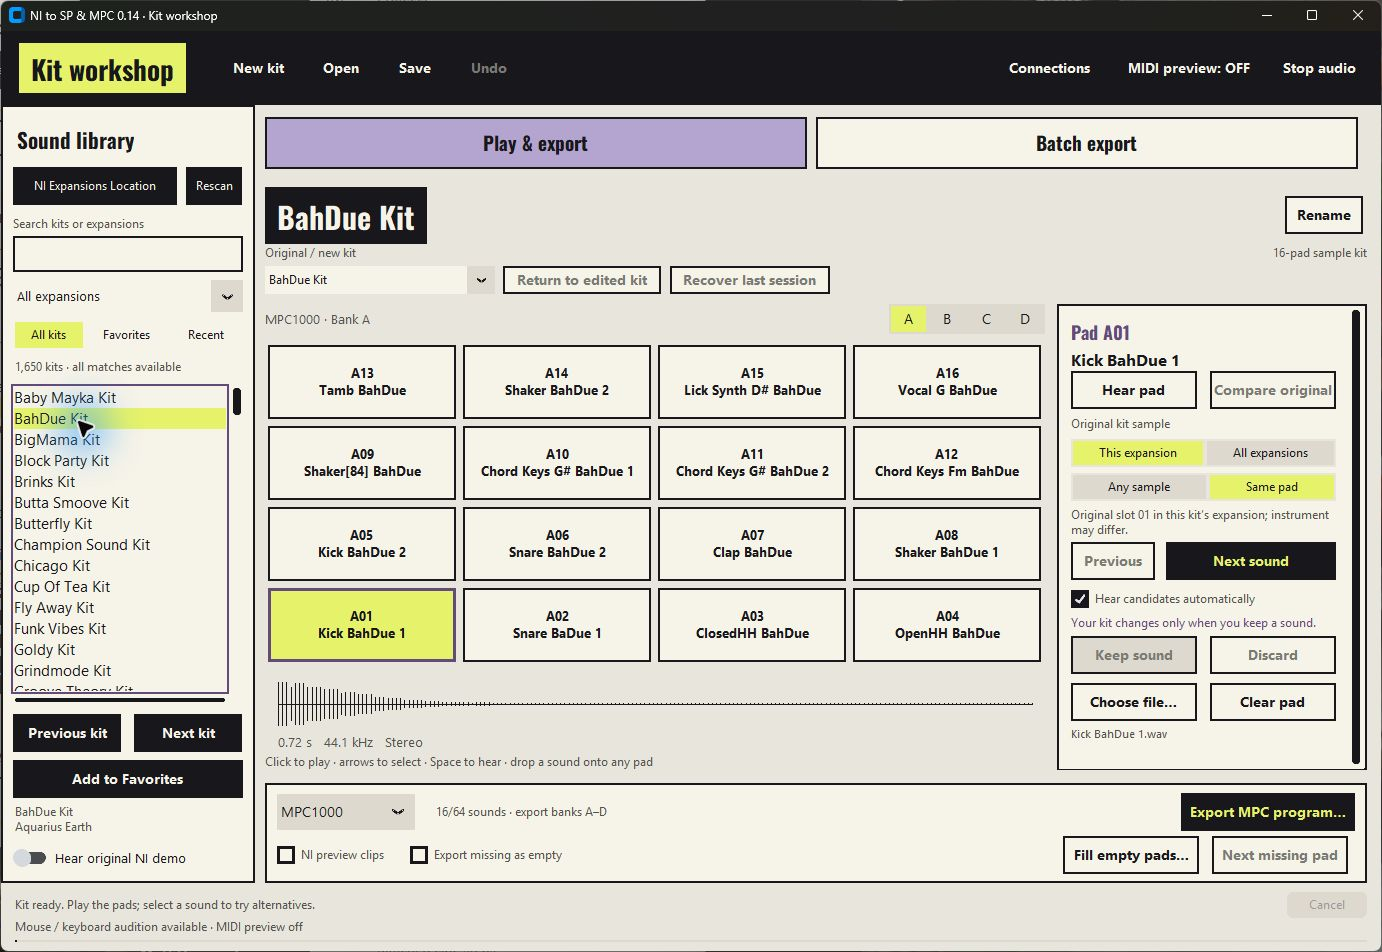
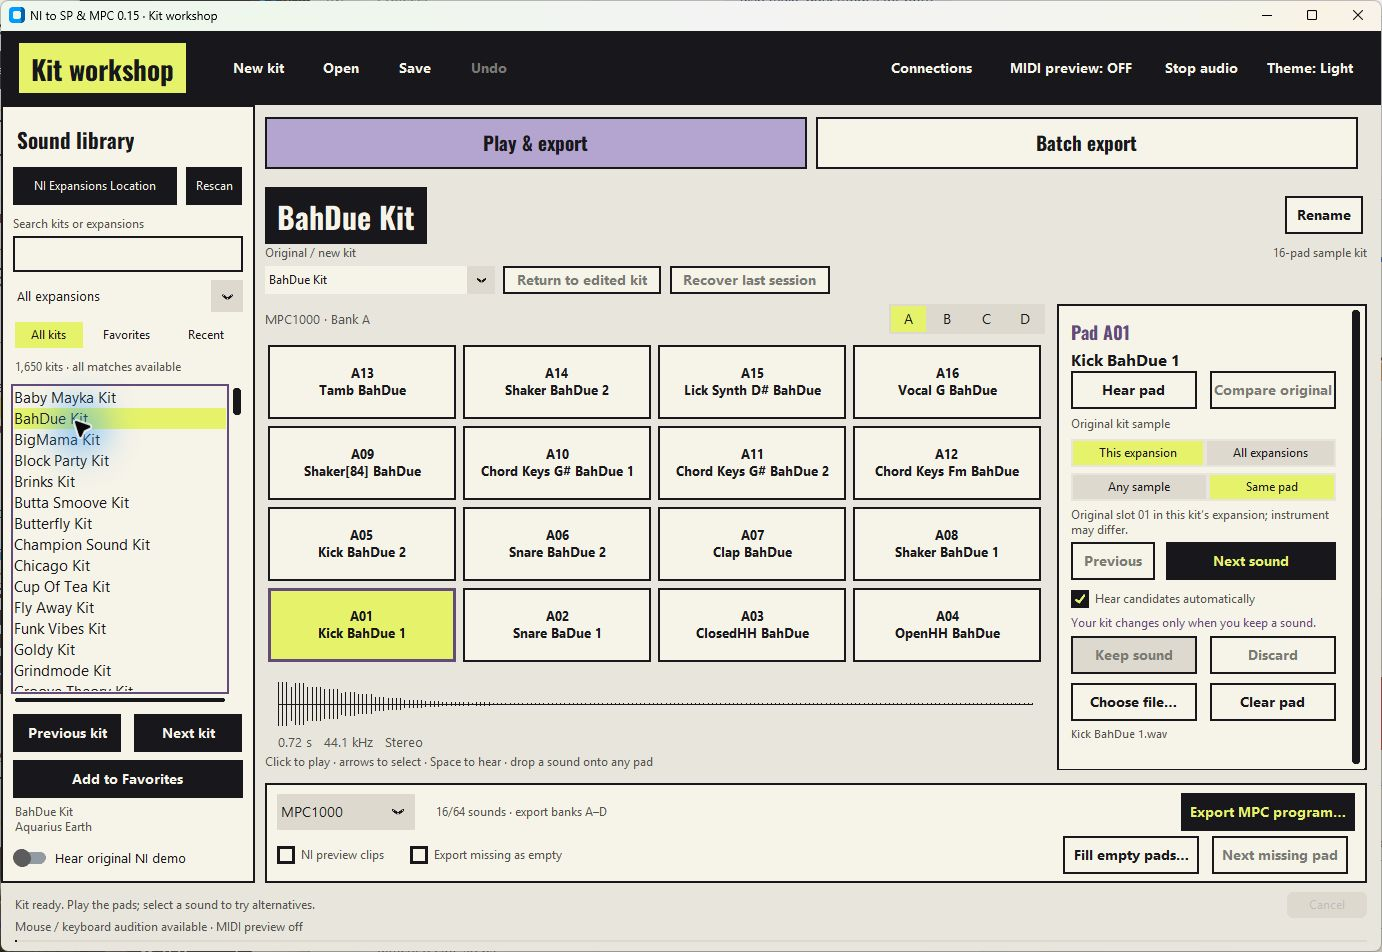
Add remembered light and dark themes without rebuilding kit state

diff --git a/ni_to_sp/studio_layout.py b/ni_to_sp/studio_layout.py
@@ -13,6 +13,10 @@ from .waveform import Waveform
 
 def build(app):
     app._desk_ready = False
+    app.theme_mode = app._studio_state.get('theme', 'light')
+    if app.theme_mode not in ('light', 'dark'):
+        app.theme_mode = 'light'
+    ctk.set_appearance_mode(app.theme_mode)
     app.ui_warning_color = T.MISSING_INK
     app.configure(fg_color=T.WORKSPACE)
     app.geometry('1380x920')
@@ -48,6 +52,9 @@ def build(app):
     app.stop_button = T.button(app, connections, 'Stop audio', app.stop_audio, dark=True, width=92)
     app.stop_button.pack(side='left', padx=3)
     app.controls.remove(app.stop_button)
+    app.theme_button = T.button(app, connections, 'Theme: ' + app.theme_mode.title(), app.toggle_theme, dark=True, width=112)
+    app.theme_button.pack(side='left', padx=3)
+    app.controls.remove(app.theme_button)
     app.live_colors = {'on': T.SELECTED, 'pending': T.SOFT, 'off': T.HEADER, 'dark': T.INK, 'text': T.ON_DARK}
 
     library = ctk.CTkFrame(app, fg_color=T.LIBRARY, corner_radius=0, border_width=2, border_color=T.LINE)
@@ -82,9 +89,9 @@ def build(app):
     listing.grid(row=6, column=0, sticky='nsew', padx=10)
     listing.grid_columnconfigure(0, weight=1)
     listing.grid_rowconfigure(0, weight=1)
-    app.kit_list = tk.Listbox(listing, bg=T.LIBRARY_INSET, fg=T.INK, selectbackground=T.SELECTED,
-        selectforeground=T.INK, font=('Segoe UI', 11), width=24, relief='flat', highlightthickness=2,
-        highlightbackground=T.LINE, highlightcolor=T.FOCUS, exportselection=False, activestyle='none')
+    app.kit_list = tk.Listbox(listing, bg=T.resolve(T.LIBRARY_INSET), fg=T.resolve(T.INK), selectbackground=T.resolve(T.SELECTED),
+        selectforeground=T.resolve(T.INK), font=('Segoe UI', 11), width=24, relief='flat', highlightthickness=2,
+        highlightbackground=T.resolve(T.LINE), highlightcolor=T.resolve(T.FOCUS), exportselection=False, activestyle='none')
     app.kit_list.grid(row=0, column=0, sticky='nsew')
     scrollbar = ctk.CTkScrollbar(listing, command=app.kit_list.yview, fg_color=T.LIBRARY_INSET, button_color=T.LINE)
     scrollbar.grid(row=0, column=1, sticky='ns')
@@ -233,7 +240,7 @@ def build(app):
     app.auto_audition = tk.BooleanVar(value=True)
     auto = ctk.CTkCheckBox(inspector, text='Hear candidates automatically', variable=app.auto_audition,
         font=T.font(12), height=22, checkbox_width=18, checkbox_height=18, corner_radius=0,
-        text_color=T.MUTED, border_color=T.LINE, fg_color=T.ACTION)
+        text_color=T.MUTED, border_color=T.LINE, fg_color=T.ACTION, checkmark_color=T.ON_ACTION)
     auto.grid(row=9, column=0, sticky='w', padx=12, pady=(8, 4))
     app.controls.append(auto)
     app.candidate_note = T.label(inspector, '', 12, T.FOCUS, wraplength=266, justify='left', anchor='w')
@@ -277,7 +284,7 @@ def build(app):
     for text, var, command in (('NI preview clips', app.use_previews_var, app.toggle_preview_sources),
                                 ('Export missing as empty', app.silence_var, app.sync)):
         check = ctk.CTkCheckBox(options, text=text, variable=var, command=command, font=T.font(12),
-            text_color=T.MUTED, fg_color=T.ACTION, border_color=T.LINE, width=167 if var is app.silence_var else 125, height=22,
+            text_color=T.MUTED, fg_color=T.ACTION, checkmark_color=T.ON_ACTION, border_color=T.LINE, width=167 if var is app.silence_var else 125, height=22,
             checkbox_width=18, checkbox_height=18, corner_radius=0)
         check.pack(side='left', padx=(0, 8))
         app.controls.append(check)
@@ -341,7 +348,7 @@ def build(app):
     for r, text, var, command in ((1, 'Use NI preset preview clips', app.use_previews_var, app.toggle_preview_sources),
                                  (2, 'Export missing as empty', app.silence_var, app.sync)):
         check = ctk.CTkCheckBox(policy, text=text, variable=var, command=command,
-            font=T.font(14), text_color=T.INK, fg_color=T.ACTION, border_color=T.LINE,
+            font=T.font(14), text_color=T.INK, fg_color=T.ACTION, checkmark_color=T.ON_ACTION, border_color=T.LINE,
             corner_radius=0, checkbox_width=18, checkbox_height=18)
         check.grid(row=r, column=0, sticky='w', padx=20, pady=(0, 8))
         app.controls.append(check)

diff --git a/tests/test_workbench.py b/tests/test_workbench.py
@@ -71,6 +71,7 @@ class WorkbenchTests(unittest.TestCase):
 
     def test_actions_fit_and_text_colours_have_readable_contrast(self):
         def luminance(hex_colour):
+            hex_colour = T.resolve(hex_colour, 'light')
             values = [int(hex_colour[i:i + 2], 16) / 255 for i in (1, 3, 5)]
             values = [v / 12.92 if v <= .04045 else ((v + .055) / 1.055) ** 2.4 for v in values]
             return sum(a * b for a, b in zip(values, (.2126, .7152, .0722)))
@@ -117,3 +118,39 @@ class WorkbenchTests(unittest.TestCase):
             self.assertEqual(self.app.connection_settings['profile'], profile)
             self.assertEqual(self.app.connection_settings['channel'], 16)
             self.assertEqual(self.app.connection_settings['midiInputName'], 'MPC interface')
+
+    def test_theme_switch_preserves_work_preview_and_bank_and_persists(self):
+        import copy
+        import json
+        from ni_to_sp.direct import inspect_group
+        self.app.set_sample(0, inspect_group(self.kit)['pads'][0]['source'])
+        before = copy.deepcopy(self.app.group)
+        session, player, undo = self.app.session, self.app.player, copy.deepcopy(self.app.undo_history)
+        self.app.toggle_theme()
+        self.app.update()
+        self.assertEqual(self.app.theme_mode, 'dark')
+        self.assertEqual(self.app.group, before)
+        self.assertIs(self.app.session, session)
+        self.assertIs(self.app.player, player)
+        self.assertEqual(self.app.undo_history, undo)
+        self.assertEqual(self.app.kit_list.cget('bg').lower(), T.resolve(T.LIBRARY_INSET, 'dark').lower())
+        state = json.loads((self.app.data_dir / 'studio-session.json').read_text())
+        self.assertEqual(state['theme'], 'dark')
+        self.app.busy = True
+        self.app.sync()
+        self.assertEqual(self.app.theme_button.cget('state'), 'normal')
+        self.app.toggle_theme()
+        self.app.busy = False
+        self.assertEqual(self.app.theme_mode, 'light')
+
+    def test_dark_text_contrast(self):
+        def luminance(token):
+            colour = T.resolve(token, 'dark')
+            rgb = [int(colour[i:i+2], 16) / 255 for i in (1, 3, 5)]
+            rgb = [v/12.92 if v <= .04045 else ((v+.055)/1.055)**2.4 for v in rgb]
+            return sum(a*b for a,b in zip(rgb, (.2126,.7152,.0722)))
+        for foreground, background in ((T.INK,T.PAPER), (T.MUTED,T.WORKSPACE),
+                (T.ON_DARK,T.HEADER), (T.ON_ACTION,T.ACTION), (T.INK,T.SELECTED),
+                (T.INK,T.NAV_SELECTED), (T.MISSING_INK,T.MISSING)):
+            a,b = sorted((luminance(foreground),luminance(background)))
+            self.assertGreaterEqual((b+.05)/(a+.05),4.5)

diff --git a/ni_to_sp/studio_workflow.py b/ni_to_sp/studio_workflow.py
@@ -44,7 +44,7 @@ class StudioWorkflow:
         self._saved_drafts = {key: value for key, value in names.items() if isinstance(key, str) and isinstance(value, str)} if isinstance(names, dict) else {}
         self._recover_id = self._studio_state.get('current')
         super().__init__()
-        self.title('NI to SP & MPC 0.14 · Kit workshop')
+        self.title('NI to SP & MPC 0.15 · Kit workshop')
         if not self._recover_id and (self.data_dir / 'last-edited-kit.json').is_file():
             try:
                 previous = open_kit(self.data_dir / 'last-edited-kit.json')
@@ -57,6 +57,18 @@ class StudioWorkflow:
         self.after(40, self.poll_music)
         self.refresh_draft_menu()
 
+    def toggle_theme(self):
+        import customtkinter as ctk
+        from . import desk_theme as T
+        self.theme_mode = 'dark' if self.theme_mode == 'light' else 'light'
+        ctk.set_appearance_mode(self.theme_mode)
+        self.theme_button.configure(text='Theme: ' + self.theme_mode.title())
+        T.refresh_native(self)
+        try:
+            self.write_studio_state()
+        except OSError as exc:
+            self.set_status('Theme changed; preference could not be saved: ' + str(exc))
+
     def draft_path(self, identity):
         key = hashlib.sha256(str(identity).encode()).hexdigest()[:32]
         (self.data_dir / 'working-kits').mkdir(parents=True, exist_ok=True)
@@ -65,7 +77,7 @@ class StudioWorkflow:
     def write_studio_state(self):
         state = {'current': self.kit['id'] if self.kit and self._dirty else self._recover_id,
                  'favorites': sorted(self._favorites), 'recents': self._recents[:100],
-                 'target': self.target_var.get(),
+                 'target': self.target_var.get(), 'theme': self.theme_mode,
                  'auto_ni_demo': self.auto_ni_demo.get(), 'expansion_root': self.root_var.get(),
                  'drafts': self._saved_drafts}
         _write_json(self.data_dir / 'studio-session.json', state)

diff --git a/ni_to_sp/desk_theme.py b/ni_to_sp/desk_theme.py
@@ -3,29 +3,44 @@ from pathlib import Path
 import os
 import customtkinter as ctk
 
-HEADER = '#18171B'
-LIBRARY = '#F6F3E8'
-LIBRARY_INSET = '#F6F3E8'
-WORKSPACE = '#E7E5DC'
-PAPER = '#F6F3E8'
-INK = '#18171B'
-MUTED = '#53524C'
-ON_DARK = '#F6F3E8'
-ON_ACTION = '#E5F26A'
-DARK_MUTED = '#53524C'
-ACTION = '#18171B'
-ACTION_HOVER = '#34313C'
-LINE = '#18171B'
-SOFT = '#DDD9CE'
-SELECTED = '#E5F26A'
-NAV_SELECTED = '#B4A4D0'
-MISSING = '#F2C1BD'
-MISSING_INK = '#701E0F'
-PREVIEW = '#D6CAE9'
-PREVIEW_INK = '#443354'
-EMPTY = '#DDD9CE'
-FOCUS = '#624A7A'
+HEADER = ('#18171B', '#101013')
+LIBRARY = ('#F6F3E8', '#24242B')
+LIBRARY_INSET = ('#F6F3E8', '#24242B')
+WORKSPACE = ('#E7E5DC', '#19191F')
+PAPER = ('#F6F3E8', '#292930')
+INK = ('#18171B', '#F6F3E8')
+MUTED = ('#53524C', '#C3BFB5')
+ON_DARK = ('#F6F3E8', '#F6F3E8')
+ON_ACTION = ('#E5F26A', '#18171B')
+DARK_MUTED = ('#53524C', '#C3BFB5')
+ACTION = ('#18171B', '#E5F26A')
+ACTION_HOVER = ('#34313C', '#CAD75F')
+LINE = ('#18171B', '#969389')
+SOFT = ('#DDD9CE', '#3A3942')
+SELECTED = ('#E5F26A', '#414B1D')
+NAV_SELECTED = ('#B4A4D0', '#524164')
+MISSING = ('#F2C1BD', '#552B2A')
+MISSING_INK = ('#701E0F', '#FFDAD4')
+PREVIEW = ('#D6CAE9', '#493957')
+PREVIEW_INK = ('#443354', '#EBDAFF')
+EMPTY = ('#DDD9CE', '#34333B')
+FOCUS = ('#624A7A', '#C9AFE8')
 _fonts_loaded = False
+
+
+def resolve(colour, mode=None):
+    """Resolve a paired colour for native Tk surfaces that cannot use CTk pairs."""
+    if isinstance(colour, (tuple, list)):
+        return colour[1 if (mode or ctk.get_appearance_mode()).lower() == 'dark' else 0]
+    return colour
+
+
+def refresh_native(app):
+    app.kit_list.configure(bg=resolve(LIBRARY_INSET), fg=resolve(INK),
+        selectbackground=resolve(SELECTED), selectforeground=resolve(INK),
+        highlightbackground=resolve(LINE), highlightcolor=resolve(FOCUS))
+    app.waveform.configure(background=resolve(WORKSPACE))
+    app.waveform._draw()
 
 
 def load_fonts():

diff --git a/ni_to_sp/waveform.py b/ni_to_sp/waveform.py
@@ -12,7 +12,7 @@ from . import desk_theme as T
 
 class Waveform(tk.Canvas):
     def __init__(self, parent, **kwargs):
-        super().__init__(parent, height=72, background=T.WORKSPACE,
+        super().__init__(parent, height=72, background=T.resolve(T.WORKSPACE),
                          highlightthickness=0, **kwargs)
         self._key, self._serial, self._points = None, 0, None
         self._message, self.metadata = 'Drop or choose a sample', ''
@@ -75,16 +75,16 @@ class Waveform(tk.Canvas):
         self.delete('all')
         w, h = self.winfo_width(), self.winfo_height()
         mid = (h - 16) / 2 if self._points else h / 2
-        self.create_line(10, mid, max(10, w - 10), mid, fill=T.LINE)
+        self.create_line(10, mid, max(10, w - 10), mid, fill=T.resolve(T.LINE))
         if self._points:
             peak = max(max(self._points), 1e-6)
             for i, value in enumerate(self._points):
                 x = 10 + i / max(1, len(self._points) - 1) * max(1, w - 20)
                 height = max(1, value / peak * (mid - 6))
-                self.create_line(x, mid - height, x, mid + height, fill=T.ACTION)
-            self.create_text(10, h - 7, text=self.metadata, anchor='w', fill=T.MUTED, font=('Segoe UI', 10))
+                self.create_line(x, mid - height, x, mid + height, fill=T.resolve(T.ACTION))
+            self.create_text(10, h - 7, text=self.metadata, anchor='w', fill=T.resolve(T.MUTED), font=('Segoe UI', 10))
         else:
-            self.create_text(w / 2, mid, text=self._message, fill=T.MUTED, font=('Segoe UI', 11))
+            self.create_text(w / 2, mid, text=self._message, fill=T.resolve(T.MUTED), font=('Segoe UI', 11))
 
     def destroy(self):
         self._serial += 1

diff --git a/ni_to_sp/converter_ui.py b/ni_to_sp/converter_ui.py
@@ -368,7 +368,7 @@ class LegacyApp(BrowserApp):
                 T.label(form, title, 13, T.MUTED).pack(anchor='w', padx=24)
                 ctk.CTkOptionMenu(form, variable=var, values=values, width=600, height=34,
                     fg_color=T.ACTION, button_color=T.ACTION_HOVER, font=T.font(14),
-                    corner_radius=0, text_color=T.ON_DARK, dropdown_fg_color=T.PAPER,
+                    corner_radius=0, text_color=T.ON_ACTION, dropdown_fg_color=T.PAPER,
                     dropdown_text_color=T.INK, dropdown_hover_color=T.SELECTED,
                     dropdown_font=T.font(13)).pack(fill='x', padx=24, pady=(3, 12))
             pending_notes = list(self.connection_settings.get('mpcPadNotes') or MPC_PAD_NOTES)

diff --git a/ni_to_sp/__init__.py b/ni_to_sp/__init__.py
@@ -1,2 +1,2 @@
 """NI to SP: capture Maschine kits and transfer verified audio to an SP-404MKII."""
-__version__ = "0.14.0"
+__version__ = "0.15.0"

diff --git a/README.md b/README.md
@@ -1,12 +1,14 @@
 # NI to SP & MPC
 
-**[Download the Windows app](https://github.com/diamond-one/NI-Expansion-to-SP404MK2-and-MPC1000-2500/releases/latest)** · Extract the ZIP and open `NI-to-SP-0.14.exe`.
+**[Download the Windows app](https://github.com/diamond-one/NI-Expansion-to-SP404MK2-and-MPC1000-2500/releases/latest)** · Extract the ZIP and open `NI-to-SP-0.15.exe`.
 
 Turn installed Maschine expansion samples into **SP-404MKII kits** or **MPC1000 programs**. Hear sounds, replace pads and build your own kits before exporting.
 
 Maschine and Python do not need to be running. Your original samples stay untouched. Synths, EQ and effects are not rendered.
 
 ![The kit workshop with a loaded kit, four MPC banks and sound replacement controls](docs/screenshots/main-workspace.png)
+
+[View dark mode](docs/screenshots/dark-mode.png)
 
 ## Make your first kit
 
@@ -19,6 +21,9 @@ Allow about **five minutes for setup**, plus download and library scanning time.
 5. **Choose your export target:** SP-404MKII or MPC1000. Follow the matching export steps below.
 
 **You can audition with the mouse straight away. MIDI setup is optional.**
+
+Use **Theme: Light / Dark** in the top bar to switch appearance. Your choice is
+remembered. Switching keeps your kit, banks, Undo history and MIDI preview running.
 
 ## Change a sound
 
@@ -170,7 +175,7 @@ python run.py
 
 Build with `./build.ps1`; the executable is written to `dist`.
 
-Run tests with `python -m unittest discover -s tests -v`. For packaged checks, use `NI-to-SP-0.14.exe --self-check report.json`. These checks use generated fixtures and do not transfer samples to physical hardware.
+Run tests with `python -m unittest discover -s tests -v`. For packaged checks, use `NI-to-SP-0.15.exe --self-check report.json`. These checks use generated fixtures and do not transfer samples to physical hardware.
 
 </details>
 

diff --git a/VALIDATION.md b/VALIDATION.md
@@ -1,6 +1,9 @@
-# Validation — Kit workshop 0.14
+# Validation — Kit workshop 0.15
 
 Verified 18 October 2026.
+
+- Version 0.15 adds a remembered Light/Dark theme button. Colours use paired tokens across workspace and dialogs; the native Tk library list and waveform update explicitly. The switch keeps the loaded group, preview session, audio player and Undo history in place and stays available during background jobs.
+- All 142 regression tests and all 13 packaged checks passed. Added tests cover state preservation, preference persistence, native list colours, availability while busy and text contrast for both palettes.
 
 - Version 0.14 applies the requested Punk direction across the workspace, batch screen, Connections and Send to SP dialog. Oswald is bundled under the SIL Open Font License; controls retain their existing keyboard and MIDI behavior.
 - The packaged 0.14 build passed all 140 regression tests and all 13 runtime checks. Contrast assertions cover primary actions, selected pads and navigation states. Native review covered a loaded kit, batch export, Connections and the read-only Send to SP destination screen. The README image was replaced with a capture from this build.

diff --git a/DESIGN.md b/DESIGN.md
@@ -1,8 +1,14 @@
-# Kit workshop 0.14 design
+# Kit workshop 0.15 design
 
 Native Windows / Python CustomTkinter. Operate mode. The user chose the Punk prototype on 18 October 2026. The real app applies its cut-paper, ink, acid-selection and condensed-title language across the editor, batch page, Connections and SP transfer window.
 
 ## Visual plan and decision
+
+Light and dark are paired versions of this interface. The top-bar theme button
+switches all live controls in place; the library list and waveform follow the
+same palette. Dark mode uses charcoal surfaces, warm light text, subdued selected
+pad fills and acid primary actions. The saved choice is independent of kits and
+never rebuilds the player, library or bank state.
 
 Paper #F6F3E8, ink #18171B, canvas #E7E5DC, acid selection #E5F26A, lavender mode selection #B4A4D0 and warning #F2C1BD. Heavy black rules and square paper panels keep the workspace direct. The masthead is an acid paper strip; kit names sit on an ink label. Primary actions use acid lettering on ink. Selected pads use acid with an outline; missing states retain explicit text. No raster textures or fake distressed controls obscure sound names.
 
